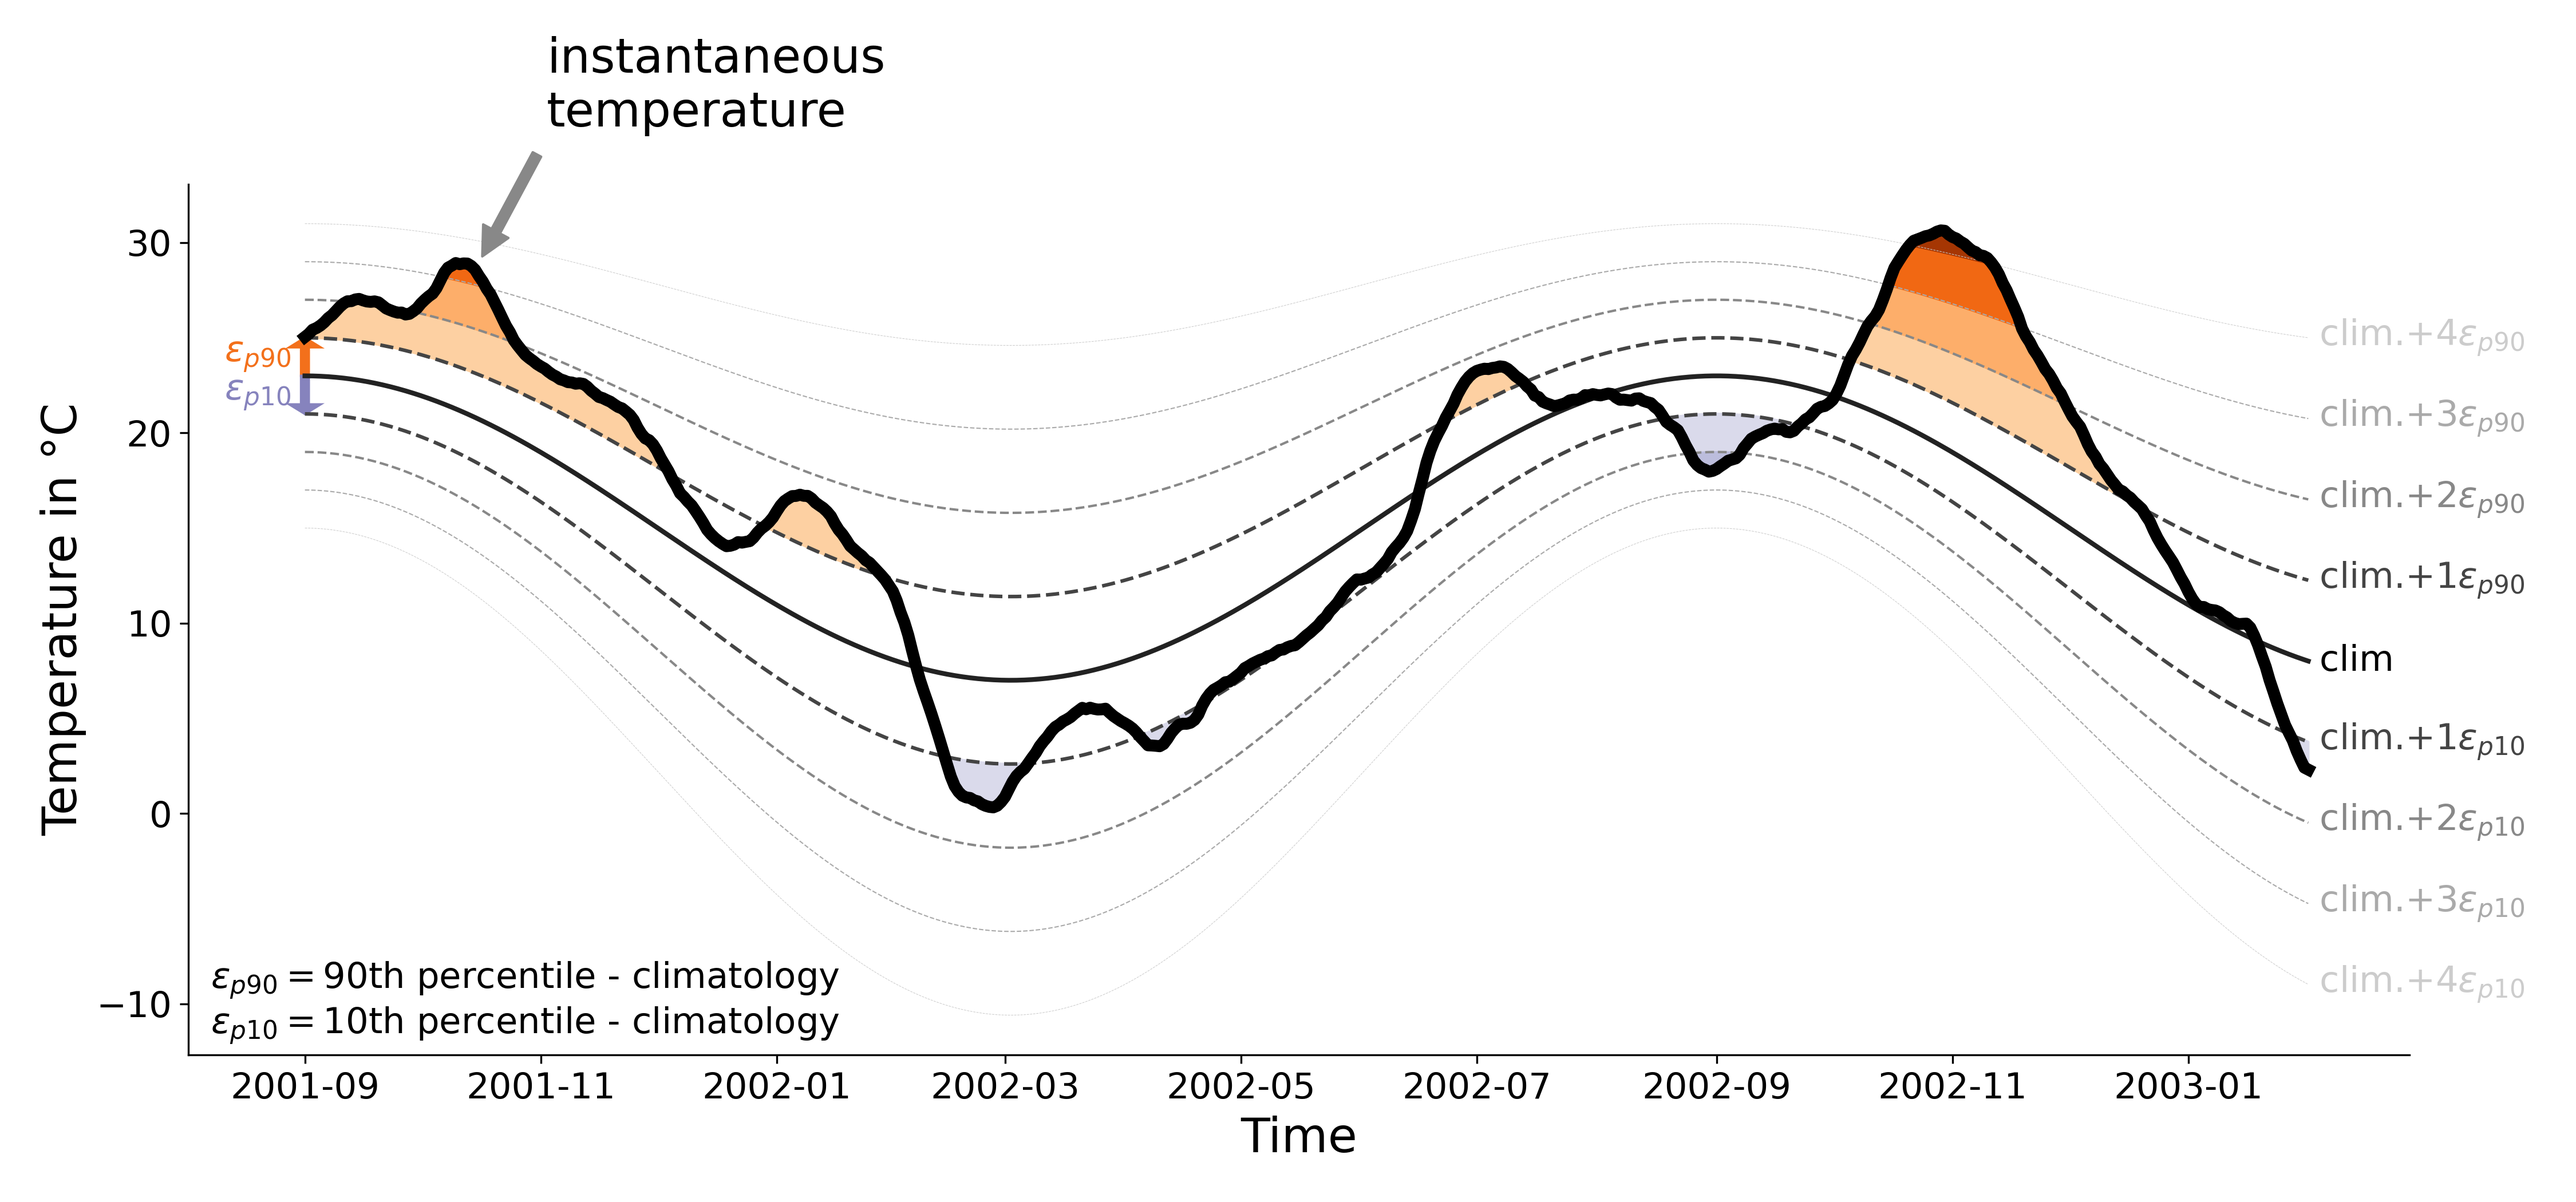
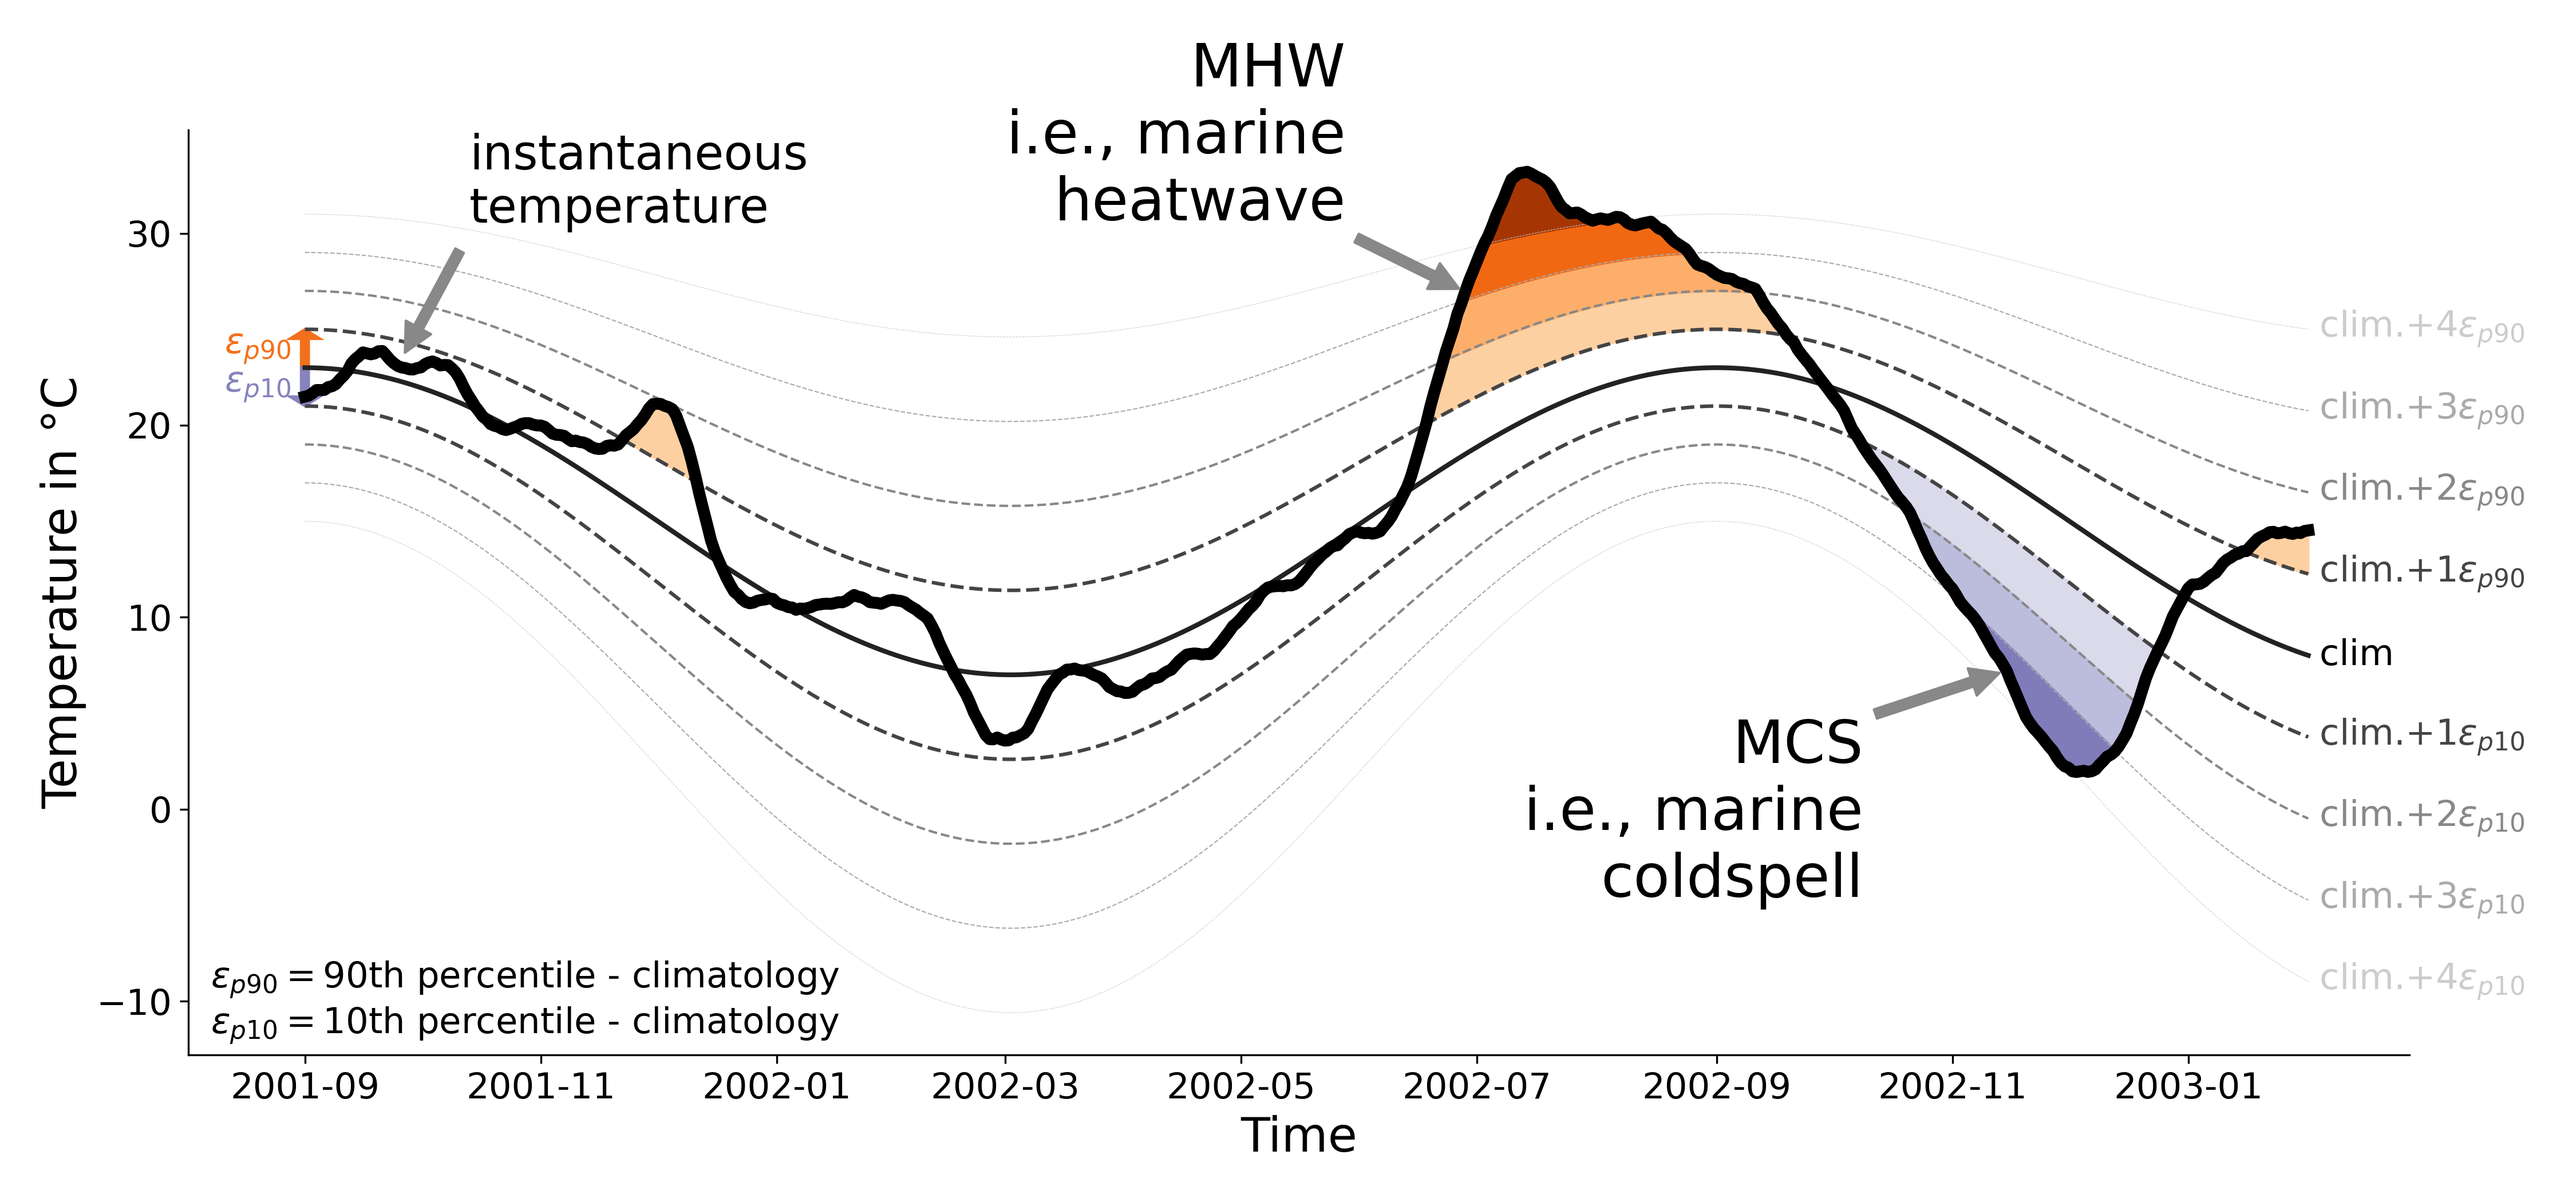
update mhw_research

diff --git a/python_scripts/plot_mhw_sketch.py b/python_scripts/plot_mhw_sketch.py
@@ -40,7 +40,7 @@ diff_thresh10_clim = sst_thresh10-sst_clim
 int_index90 = (sst_inst_smoothed-sst_clim)/(sst_thresh90-sst_clim)
 int_index10 = (sst_inst_smoothed-sst_clim)/(sst_thresh10-sst_clim)
 
-#%
+#%%
 facs = [1,2,3,4]
 cmap_fracs = [0.25,0.375,0.625,0.875]
 linewidths=[1.5,1,0.5,0.25]
@@ -83,14 +83,19 @@ ax.text(0.01,0.01,r'$\epsilon_{p90} = $90th percentile - climatology'+'\n'+'$\ep
 
 # plot the instantaneous temperature
 plt.plot(timevec,sst_inst_smoothed,color='k',linewidth=5,label='temperature')
-n=44
+n=24
 plt.annotate('instantaneous\ntemperature',[timevec[n],sst_inst_smoothed[n]],[30,60],textcoords='offset points',arrowprops=dict(facecolor='#888888',edgecolor='#888888', shrink=0.1),fontsize=fontsize+5)
+n2 = 300
+plt.annotate('MHW\ni.e., marine\nheatwave',[timevec[n2],sst_inst_smoothed[n2]],[-50,30],textcoords='offset points',arrowprops=dict(facecolor='#888888',edgecolor='#888888', shrink=0.05),fontsize=fontsize+10,ha='right')#,va='center')
+n3 = 440
+plt.annotate('MCS\ni.e., marine\ncoldspell',[timevec[n3],sst_inst_smoothed[n3]],[-60,-60],textcoords='offset points',arrowprops=dict(facecolor='#888888',edgecolor='#888888', shrink=0.05),fontsize=fontsize+10,ha='right',va='center')
 # finalize plot
 plt.ylabel('Temperature in °C',fontsize=fontsize+5)
 plt.xlabel('Time',fontsize=fontsize+5)
 ax.spines[['right', 'top']].set_visible(False)
 plt.tight_layout()
-plt.savefig('mhw_concept_sketch.png',dpi=300)
+plot_dir = '../assets/images/'
+plt.savefig(plot_dir+'mhw_concept_sketch.png',dpi=300)
 plt.show()
 
 # %%
